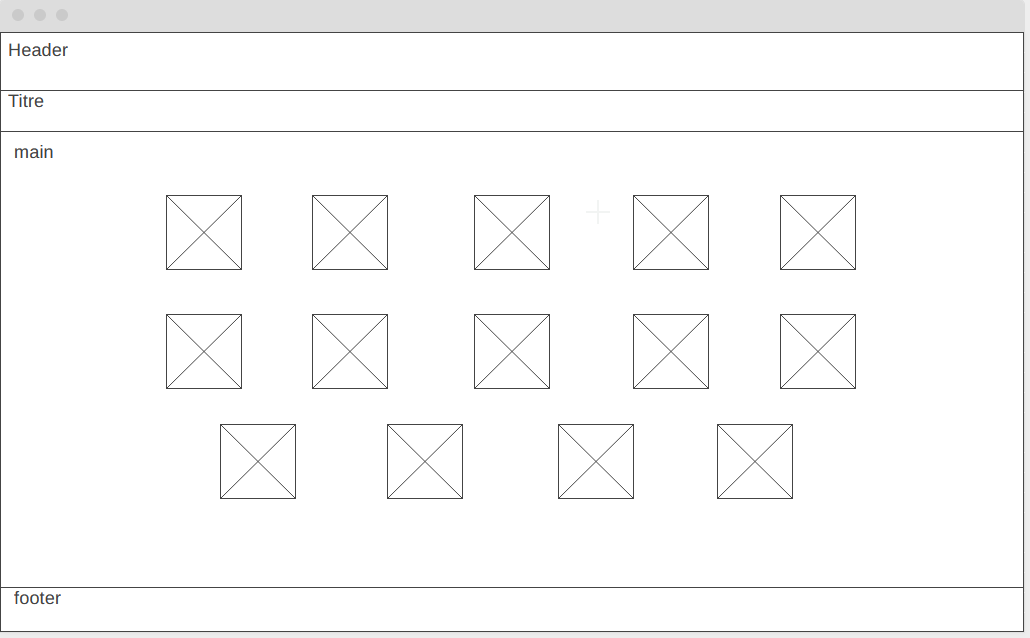
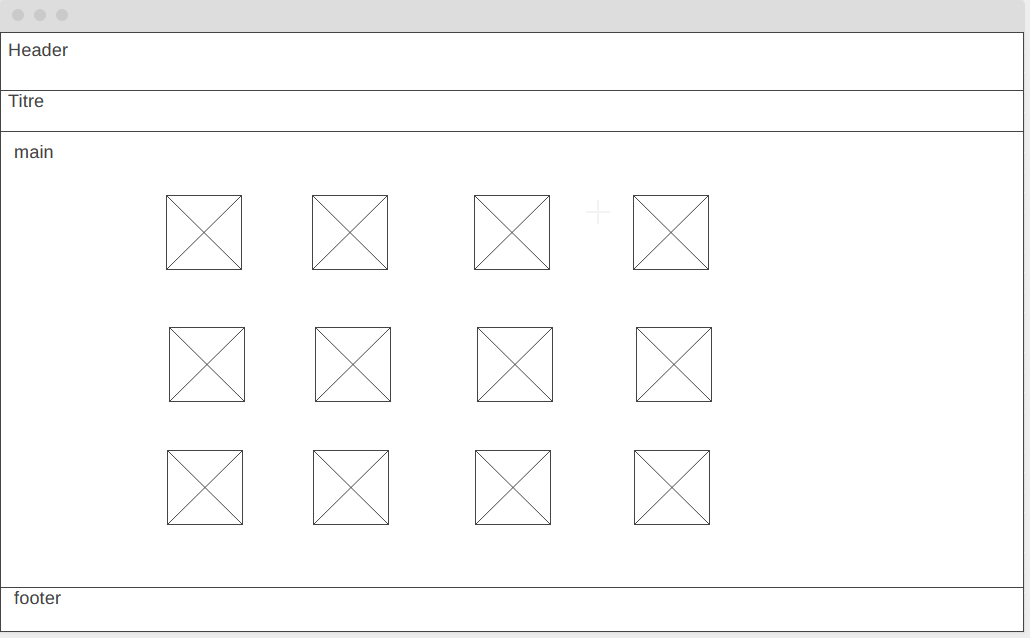
add some css and responsive

diff --git a/index.html b/index.html
@@ -15,7 +15,9 @@
   <link rel="manifest" href="site.webmanifest">
   <link rel="apple-touch-icon" href="icon.png">
   <!-- Place favicon.ico in the root directory -->
-
+  <link href="https://cdn.jsdelivr.net/npm/bootstrap@5.0.0-beta3/dist/css/bootstrap.min.css" rel="stylesheet" integrity="sha384-eOJMYsd53ii+scO/bJGFsiCZc+5NDVN2yr8+0RDqr0Ql0h+rP48ckxlpbzKgwra6" crossorigin="anonymous">
+  <link rel="preconnect" href="https://fonts.gstatic.com">
+  <link href="https://fonts.googleapis.com/css2?family=Zen+Dots&display=swap" rel="stylesheet"> 
   <link rel="stylesheet" href="css/normalize.css">
   <link rel="stylesheet" href="css/main.css">
   <meta name="theme-color" content="#fafafa">
@@ -26,33 +28,41 @@
     <h1>Le jeu du MEMORY</h1>
   </header>
   <main>
+    <div class="wannaPlay" id="wannaPlay">
+      <div class="row playOverlay">
+        <p> Voulez-vous jouer ?</p>
+        <button  class="btn btn-play col-12" onclick="wannaPlay()">Jouer</button>
+      </div>
+    </div>
     <article>
       <h2>Notre jeu Warcraft</h2>
-        <div class="row" id="backCard">
-          <img  class="backCardClass utilityCard cardsImage col-6 cold-md-3 col-lg-1"  alt="Back of the card" >
-          <img  class="backCardClass utilityCard cardsImage col-6 cold-md-3 col-lg-1"  alt="Back of the card" >
-          <img  class="backCardClass utilityCard cardsImage col-6 cold-md-3 col-lg-1"  alt="Back of the card" >
-          <img  class="backCardClass utilityCard cardsImage col-6 cold-md-3 col-lg-2"  alt="Back of the card" >
-          <img  class="backCardClass utilityCard cardsImage col-6 cold-md-3 col-lg-2"  alt="Back of the card" >
-          <img  class="backCardClass utilityCard cardsImage col-6 cold-md-3 col-lg-2"  alt="Back of the card" >
-          <img  class="backCardClass utilityCard cardsImage col-6 cold-md-3 col-lg-2"  alt="Back of the card" >
-          <img  class="backCardClass utilityCard cardsImage col-6 cold-md-3 col-lg-2"  alt="Back of the card" >
-          <img  class="backCardClass utilityCard cardsImage col-6 cold-md-3 col-lg-2"  alt="Back of the card" >
-          <img  class="backCardClass utilityCard cardsImage col-6 cold-md-3 col-lg-2"  alt="Back of the card" >
-          <img  class="backCardClass utilityCard cardsImage col-6 cold-md-3 col-lg-2"  alt="Back of the card" >
-          <img  class="backCardClass utilityCard cardsImage col-6 cold-md-3 col-lg-2"  alt="Back of the card" >
+        <div class="row " id="backCard">
+          <img  class="backCardClass utilityCard cardsImage " alt="Back of the card" >
+          <img  class="backCardClass utilityCard cardsImage " alt="Back of the card" >
+          <img  class="backCardClass utilityCard cardsImage " alt="Back of the card" >
+          <img  class="backCardClass utilityCard cardsImage " alt="Back of the card" >
+          <img  class="backCardClass utilityCard cardsImage " alt="Back of the card" >
+          <img  class="backCardClass utilityCard cardsImage " alt="Back of the card" >
+          <img  class="backCardClass utilityCard cardsImage " alt="Back of the card" >
+          <img  class="backCardClass utilityCard cardsImage " alt="Back of the card" >
+          <img  class="backCardClass utilityCard cardsImage " alt="Back of the card" >
+          <img  class="backCardClass utilityCard cardsImage " alt="Back of the card" >
+          <img  class="backCardClass utilityCard cardsImage " alt="Back of the card" >
+          <img  class="backCardClass utilityCard cardsImage " alt="Back of the card" >
         </div>
 
 
     </article>
   </main>
-  <footer class= "py-3 bottom">
-    <a href="https://github.com/ECaffier">Mon github</a>
-    <i class="fab fa-facebook-f bottomRs"></i>
-    <i class="fab fa-twitter bottomRs"></i>
-    <i class="fab fa-instagram bottomRs"></i>
+  <footer class="row py-3 bottom">
+    <a class="offset-5 col-5 py-3" href="https://github.com/ECaffier">Mon github</a>
+    <a class="fab fa-facebook-f bottomRs offset-2 col-2" href="https://facebook.com/"></a>
+    <a class="fab fa-twitter bottomRs offset-2 col-2" href="https://twitter.com/"></a>
+    <a class="fab fa-instagram bottomRs offset-2 col-2"href="https://instagram.com/"></a>
 
   </footer>
+  <script src="https://cdn.jsdelivr.net/npm/@popperjs/core@2.9.1/dist/umd/popper.min.js" integrity="sha384-SR1sx49pcuLnqZUnnPwx6FCym0wLsk5JZuNx2bPPENzswTNFaQU1RDvt3wT4gWFG" crossorigin="anonymous"></script>
+  <script src="https://cdn.jsdelivr.net/npm/bootstrap@5.0.0-beta3/dist/js/bootstrap.min.js" integrity="sha384-j0CNLUeiqtyaRmlzUHCPZ+Gy5fQu0dQ6eZ/xAww941Ai1SxSY+0EQqNXNE6DZiVc" crossorigin="anonymous"></script>
   <script src="https://kit.fontawesome.com/7e579ade86.js" crossorigin="anonymous"></script>
   <script src="js/vendor/modernizr-3.11.2.min.js"></script>
   <script src="js/plugins.js"></script>

diff --git a/css/main.css b/css/main.css
@@ -91,45 +91,127 @@ textarea {
    /* Header*/
    h1{
      background-color: #6C758E;
-     color:#755229;
+     color:#d3e0f3;
+     font-family: 'Zen Dots', cursive;
+     font-size : 2.5em;
      margin: 0;
      padding: 2em;
    }
    /*Main*/
    h2{
      margin-top: 0;
+     font-family: 'Zen Dots', cursive;
+     color: #383f52;
+     padding: 1em;
    }
    main{
      min-height: 80vh;
      background-color: #C7DDFD;
-     padding-left: 1.5em;
-     padding-top: 1em;
-
    }
+
+   .wannaPlay{
+    background-color:rgba(41, 40, 40, 0);
+    width: 100%;
+    height: 100%;
+    position:fixed;
+    z-index: 10;
+  }
+  .wannaPlay div p{
+    color:#dfe9f8;
+    font-size :2em;
+    display: flex;
+    justify-content: center;
+    padding-bottom: 1em;
+  }
+  .btn-play{
+    background-color: #C2A755;
+    font-size: 1.5em;
+  }
+  .btn-play:hover{
+    background-color:#1f6b23;
+    color:#e2b93d;
+  }
+
+  .playOverlay{
+    margin:3vh 3vw;
+    padding: 10vh;
+    background-color: #6C758E;
+    display: flex;
+    justify-content: center;
+  }
+
+   .row{
+    --bs-gutter-x:0;
+   }
+
    .cardsImage{
-     height: 40vh;
-     width: 14vw;
      margin : 1em;
+     margin-left: 2.5em;
      cursor: pointer;
+     width: 33vw;
+     height: 40vh;
+     padding-bottom: 3em;
    }
 
-   .newClasss{
-
-    content:url("../img/Shaman.png");
+   .tamponClass{
+    content:url("");
    }
    .backCardClass{
-
     content:url("../img/backCard.png");
    }
 
    /*Footer*/
    .bottom{
      background-color: #6C758E;
-     color: white;
+     color: #C7DDFD;
    }
+   a{
+     text-decoration: none;
+     color:#d9e3f3;
+     font-size: 2em;
+   }
+   a:hover{
+     color:#e2b93d;
+
+   }
+
    .bottomRs{
     font-size: 2em;
     margin-top: 1em;
+  }
+
+  @media screen and (min-width:720px){
+
+    .cardsImage{
+      width: 25vw;
+      height: 35vh;
+      margin-left: 2.5em;
+    }
+
+  }
+
+  @media screen and (min-width:1024px){
+
+    .cardsImage{
+      width: 18vw;
+      height: 40vh;
+      padding-left: 1em;
+    }
+  }
+
+  @media screen and (min-width:1480px){
+
+    .cardsImage{
+      width : 13.5vw;
+      height: 48vh;
+      padding-left:0;
+    }
+
+    .playOverlay{
+      width: 33vw;
+      margin-top:15vh;
+      margin-left: 33vw;
+    }
   }
 /* ==========================================================================
    Helper classes

diff --git a/js/main.js b/js/main.js
@@ -4,7 +4,7 @@ let gameCard = ["img/Warlock.png","img/Warrior.png","img/Druid.png","img/Shaman.
 // Var for the back of the card
 let backGameCard=["img/backCard.png"]
 // Var for the winning card
-let winGameCard=["img/trouve.jpg"]
+let winGameCard=["img/WinnerCard.png"]
 // Var to stock cards and verif if both card are the same or not
 let gameVerif =[];
 // Var to end the game
@@ -19,10 +19,16 @@ function playMemory(){
     for(let i=0;i<gameCard.length; i++){ 
         useUtilityCard[i].onclick = function(){
             this.src= gameCard[i];
-            this.classList.add("newClasss");
+            this.classList.add("tamponClass");
             gameVerif.push(gameCard[i]);
             if (gameVerif.length == 2){
                 setTimeout("compare()", 1000);
+                if (gameEnd < 10){
+                    console.log("flute");
+                }
+                else{
+                    alert("pouet");
+                }
             }
         };
     }
@@ -32,21 +38,32 @@ playMemory();
 // This function compare the 2 cards picked and change the img src for the winner or the loser one.
 function compare(){
     if(gameVerif[0] === gameVerif[1]){
-        let list = document.querySelectorAll('.newClasss');
+        let list = document.querySelectorAll('.tamponClass');
         for (let k=0; k<list.length; k++){
             list[k].src=winGameCard[0];
-            list[k].classList.remove("newClasss");
+            list[k].classList.remove("tamponClass");
+            gameEnd++;
+            console.log(gameEnd);
         } 
     }
     else{
-        let list = document.querySelectorAll('.newClasss');
+        let list = document.querySelectorAll('.tamponClass');
         for (let j=0; j<list.length; j++){
             list[j].src=backGameCard[0];
-            list[j].classList.remove("newClasss");
+            list[j].classList.remove("tamponClass");
         }   
     }
         gameVerif =[];
 }
+
+//Function to play
+
+function wannaPlay(){
+    document.getElementById("wannaPlay").style.display="none";
+}
+
+
+
 
 
 
@@ -71,7 +88,7 @@ function compare(){
 //     var x = document.getElementsByClassName("newClass");
 //     var j;
 //     for (j = 0; j < x.length; j++) {
-//       x[j].classList.add("newClasss");
+//       x[j].classList.add("tamponClass");
 //     }
 //   }
 
